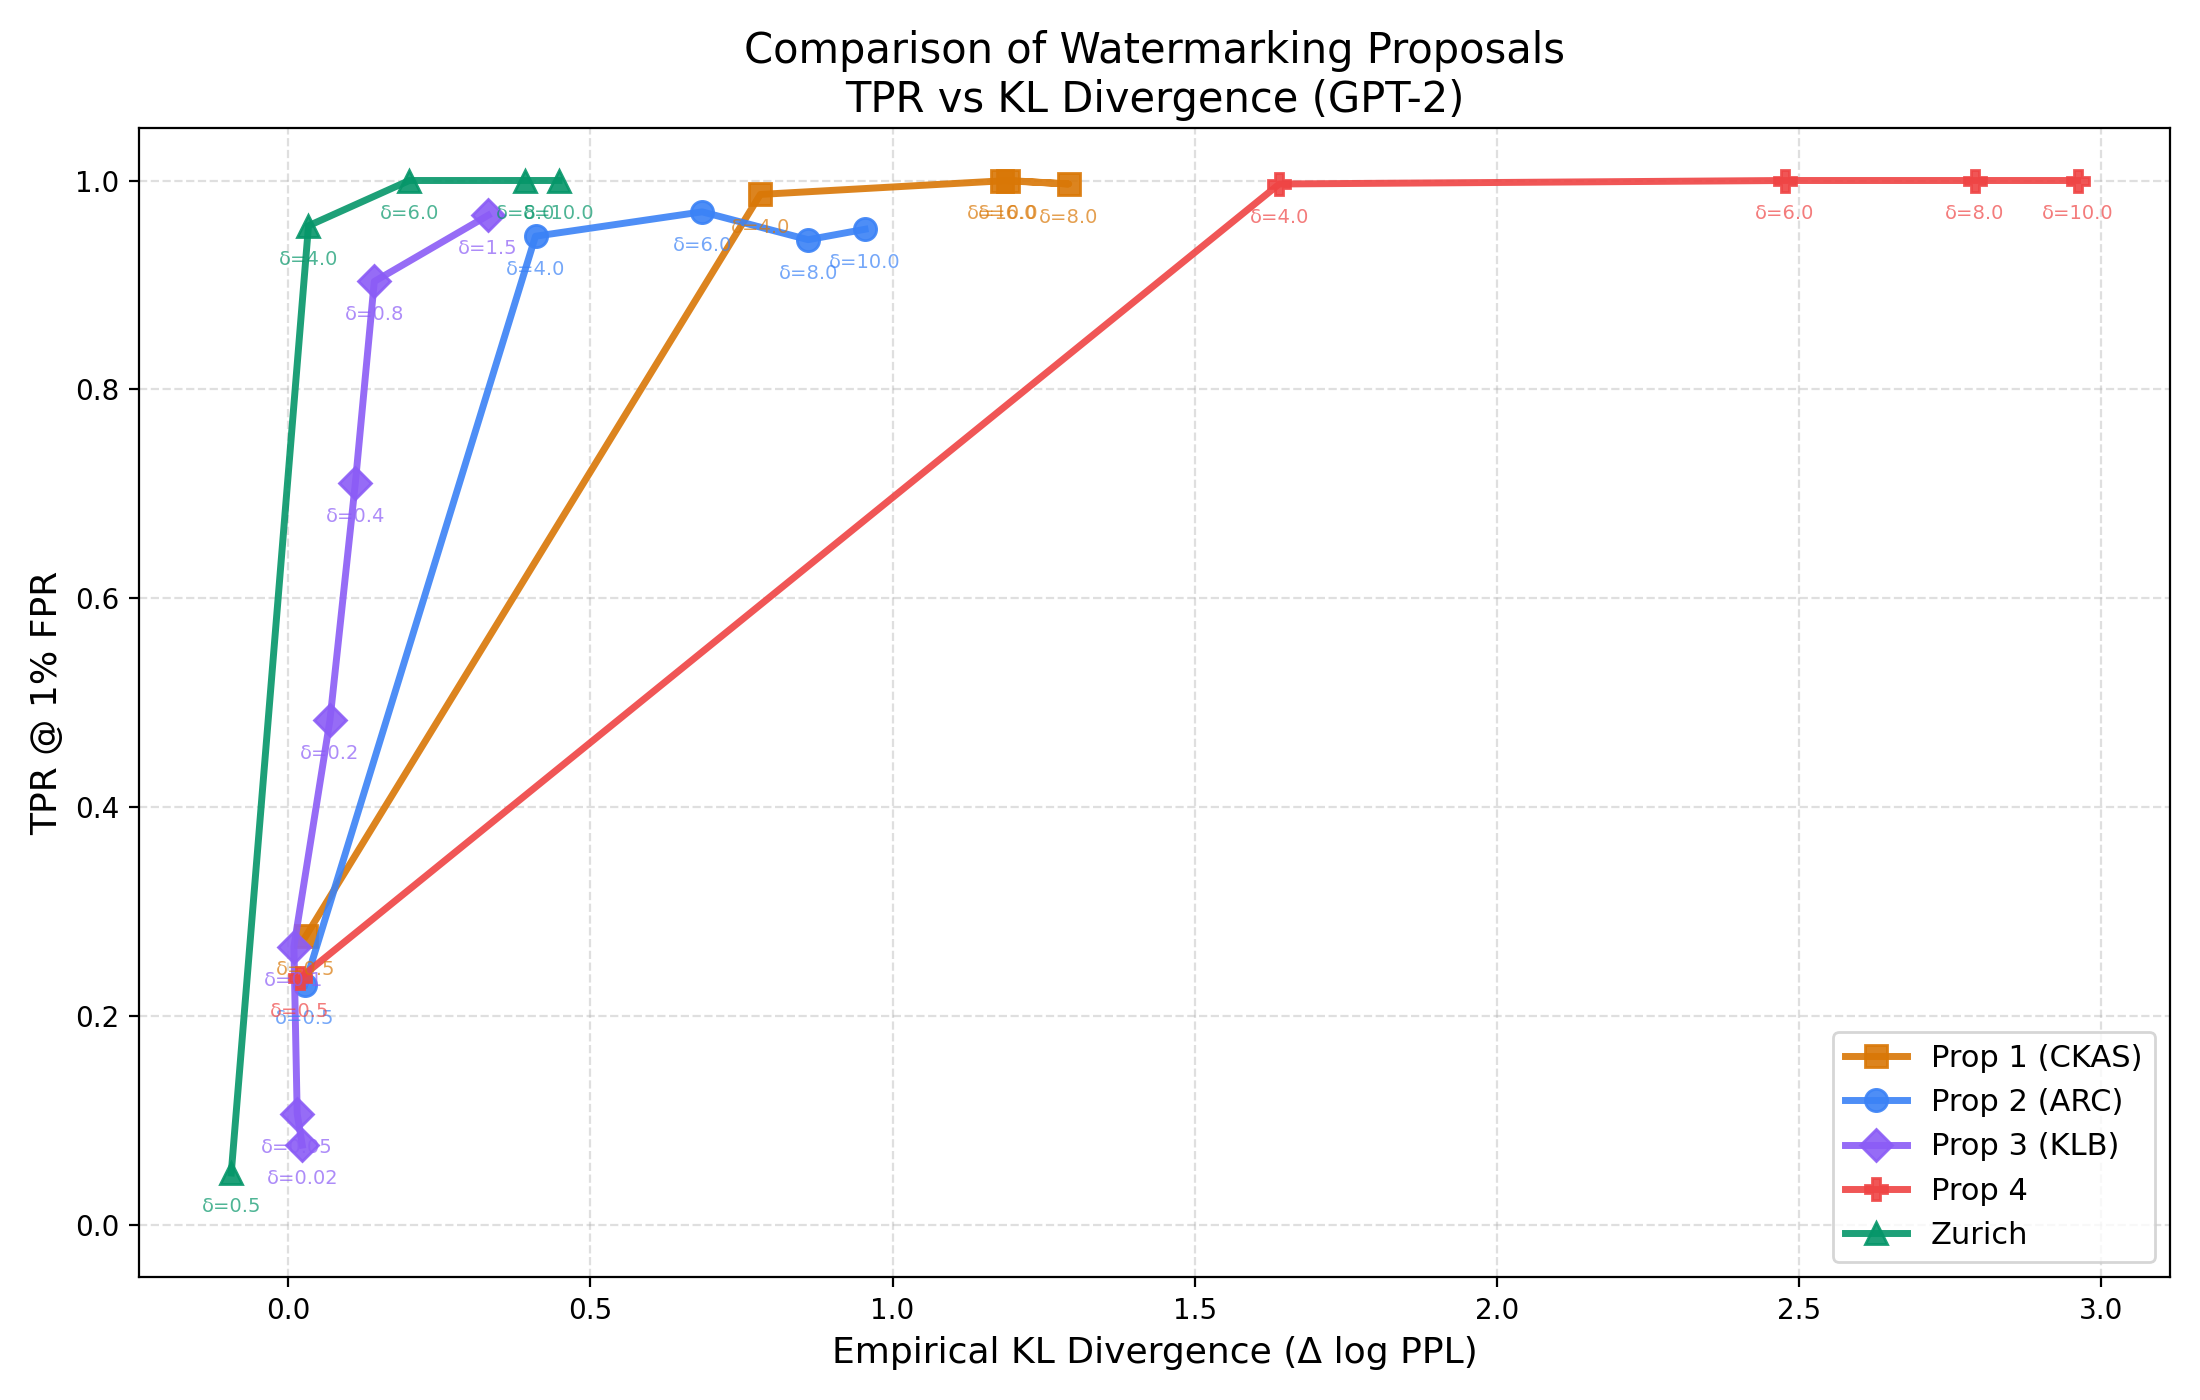
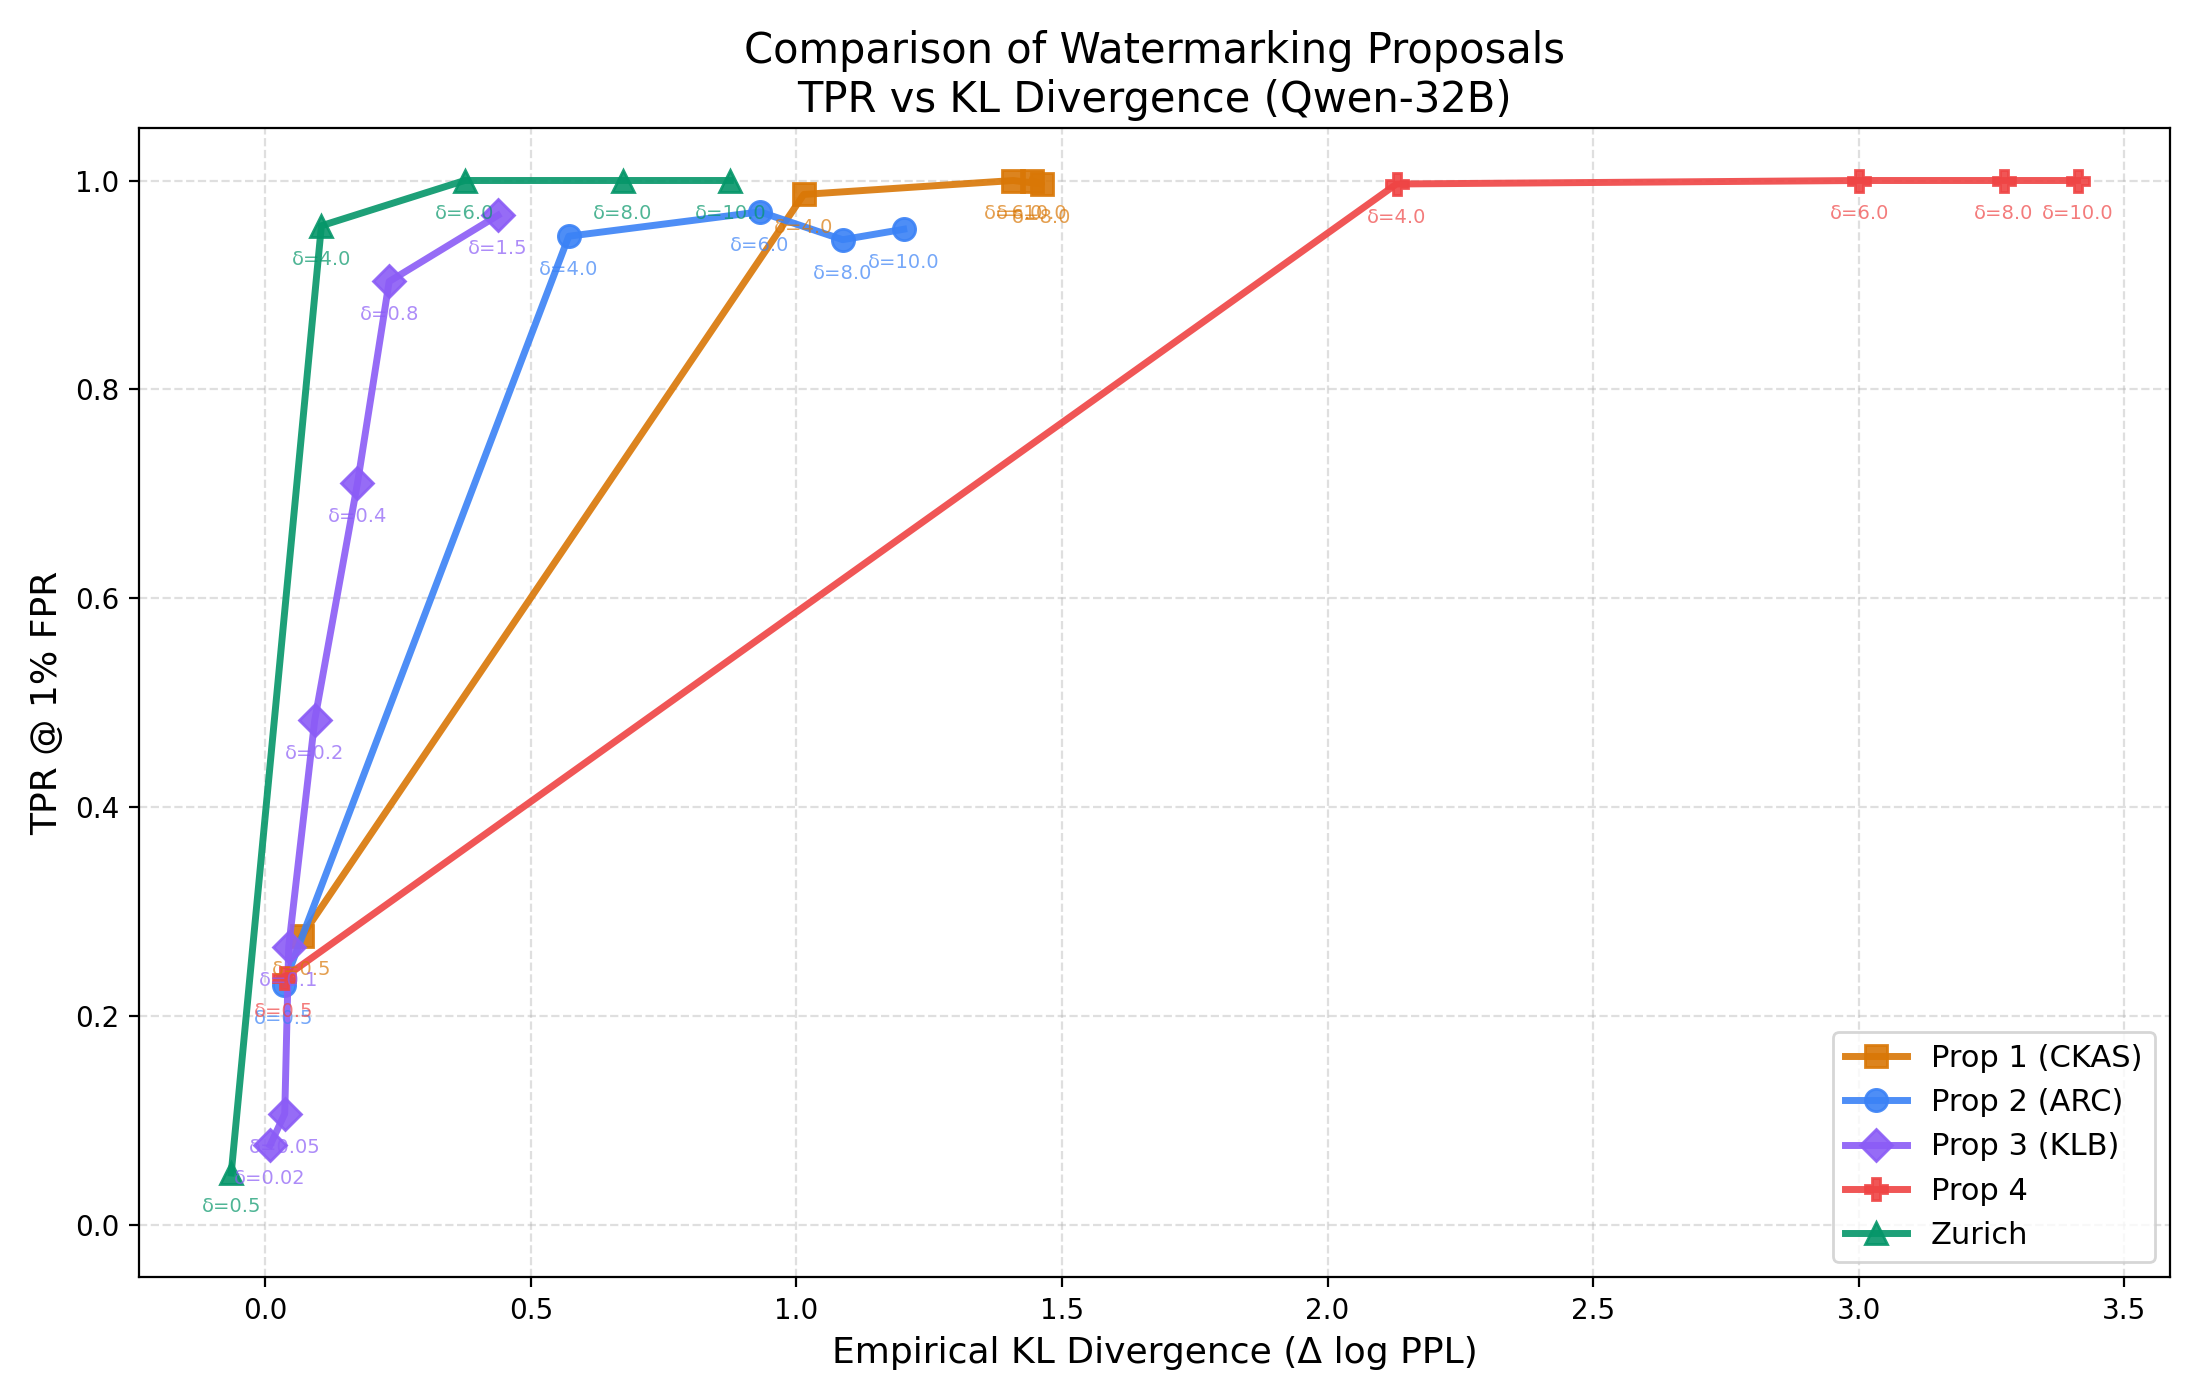
Try another propsoed algorithm

diff --git a/watermarks/proposal_5_ogt.py b/watermarks/proposal_5_ogt.py
@@ -1,0 +1,244 @@
+"""
+Proposal 5 — OGT: Optimal Gaussian Tilting.
+
+This method achieves the theoretical optimum for the KL divergence vs Detection Power tradeoff.
+Instead of binary green/red lists, it assigns a continuous standard Gaussian score
+s_v ~ N(0, 1) to every (context, token) pair. It then uses exact bisection to find the maximum
+tilt lambda_t such that the local KL divergence constraint KL(P_wm || P_base) <= kl_budget
+is met. The resulting logits are shifted by lambda_t * s_v.
+
+Detection sums the continuous scores of the observed tokens. Since s_v ~ N(0,1), under
+the null hypothesis the sum is distributed as N(0, N), so we use a standard Z-test.
+"""
+
+import math
+from typing import Any, Dict
+
+import numpy as np
+import torch
+from scipy.stats import norm
+
+# --------------------------- hashing primitives ---------------------------
+
+def _i64(c: int) -> int:
+    return c - (1 << 64) if c >= (1 << 63) else c
+
+_MIX1 = _i64(0xBF58476D1CE4E5B9)
+_MIX2 = _i64(0x94D049BB133111EB)
+_ROLE = [_i64(c) for c in (
+    0xD6E8FEB86659FD93, 0xA3B195354A39B70D, 0x9E6C63D0876A9F4F,
+    0xC2B2AE3D27D4EB4F, 0x165667B19E3779F9, 0x27D4EB2F165667C5,
+)]
+
+def _lsr(x: torch.Tensor, k: int) -> torch.Tensor:
+    return (x >> k) & _i64((1 << (64 - k)) - 1)
+
+def _mix(x: torch.Tensor) -> torch.Tensor:
+    x = x ^ _lsr(x, 30)
+    x = x * _MIX1
+    x = x ^ _lsr(x, 27)
+    x = x * _MIX2
+    x = x ^ _lsr(x, 31)
+    return x
+
+class DWTWatermark:
+    """Optimal Gaussian Tilting (OGT) watermark."""
+
+    def __init__(
+        self,
+        key: str = "xooks",
+        kl_budget: float = 0.10,      # nats per position
+        delta_max: float = 10.0,      # tilt cap
+        context_window: int = 1,      # w=1 matches Zurich
+        temperature: float = 1.0,
+        vocab_size: int = 50257,
+        min_tokens: int = 16,
+        chunk_size: int = 128,
+        bisect_iters: int = 40,
+        device: str = "cuda" if torch.cuda.is_available() else "cpu",
+        # signature compatibility
+        delta: float = None,
+        frequency: float = 0.045,
+    ):
+        self.key = key
+        # If the runner passes delta instead of kl_budget, we'll map delta to kl_budget.
+        # But waterbench_shared.py iterates over delta.
+        # Let's interpret delta as the kl_budget itself if delta is small, or map it.
+        # To match the runner script perfectly which passes --delta:
+        if delta is not None and kl_budget == 0.10:
+            # If the script passes delta like 0.02, 0.05, 0.1, we map that directly to kl_budget
+            self.kl_budget = float(delta)
+        else:
+            self.kl_budget = float(kl_budget)
+            
+        self.delta_max = float(delta_max)
+        self.window = int(context_window)
+        self.temperature = float(temperature)
+        self.vocab_size = int(vocab_size)
+        self.min_tokens = int(min_tokens)
+        self.chunk_size = int(chunk_size)
+        self.bisect_iters = int(bisect_iters)
+        self.device = device
+
+        import hashlib
+        self.key_int = _i64(int(hashlib.sha256(key.encode()).hexdigest()[:16], 16))
+        idx = torch.arange(self.vocab_size, dtype=torch.int64, device=device)
+        self._idx_mixed = (idx + 1) * _ROLE[0]
+
+    # ---- continuous scoring ----
+
+    def _context_hashes(self, ids: torch.Tensor) -> torch.Tensor:
+        ids = ids.to(torch.int64)
+        h = torch.full_like(ids, self.key_int)
+        for j in range(1, self.window + 1):
+            prev = torch.roll(ids, shifts=j, dims=-1).clone()
+            prev[..., :j] = -j
+            h = _mix(h ^ ((prev + 2) * _ROLE[j]))
+        return _mix(h)
+
+    def _get_gaussian_scores(self, mixed: torch.Tensor) -> torch.Tensor:
+        """Convert mixed 64-bit integers to standard normal floats."""
+        # 1. Convert to uniform float in [0, 1) using 53 bits of precision
+        u = (_lsr(mixed, 11).to(torch.float64) * (2 ** -53)).to(torch.float32)
+        # 2. Clamp to avoid infinity in inverse CDF
+        u = torch.clamp(u, 1e-7, 1 - 1e-7)
+        # 3. Inverse Normal CDF
+        s = torch.special.ndtri(u)
+        return s
+
+    def _scores_all_tokens(self, h: torch.Tensor) -> torch.Tensor:
+        y = _mix(h.unsqueeze(-1) ^ self._idx_mixed.unsqueeze(0))
+        return self._get_gaussian_scores(y)
+
+    def _scores_for_tokens(self, h: torch.Tensor, tok: torch.Tensor) -> torch.Tensor:
+        y = _mix(h ^ ((tok.to(torch.int64) + 1) * _ROLE[0]))
+        return self._get_gaussian_scores(y)
+
+    # ------------------------- Exact KL Bisection --------------------------------
+
+    @staticmethod
+    def _kl_of_delta(d: torch.Tensor, p0: torch.Tensor, s: torch.Tensor) -> torch.Tensor:
+        """
+        Compute exact KL divergence for tilt d.
+        p0: base probabilities (P, V)
+        s: token scores (P, V)
+        d: tilt multipliers (P, 1)
+        """
+        # q = p0 * exp(d * s) / Z
+        # log_q_unnorm = log(p0) + d * s
+        # Z = sum(p0 * exp(d * s)) -> but compute in log space
+        
+        log_p0 = torch.log(torch.clamp(p0, 1e-12))
+        log_q_unnorm = log_p0 + d * s
+        
+        # logZ = logsumexp(log_q_unnorm)
+        logZ = torch.logsumexp(log_q_unnorm, dim=-1, keepdim=True)
+        
+        # q = exp(log_q_unnorm - logZ)
+        q = torch.exp(log_q_unnorm - logZ)
+        
+        # KL(q || p0) = sum_v q_v * (log_q_unnorm_v - logZ_v - log_p0_v)
+        # Since log_q_unnorm - log_p0 = d * s
+        # KL = sum_v q_v * (d * s - logZ)
+        kl = torch.sum(q * (d * s - logZ), dim=-1)
+        return kl
+
+    def _solve_delta(self, p0: torch.Tensor, s: torch.Tensor) -> torch.Tensor:
+        """
+        Vectorised bisection over P positions to find tilt d.
+        """
+        P = p0.shape[0]
+        lo = torch.zeros((P, 1), device=p0.device)
+        hi = torch.full((P, 1), self.delta_max, device=p0.device)
+        
+        within = self._kl_of_delta(hi, p0, s) <= self.kl_budget
+        
+        for _ in range(self.bisect_iters):
+            mid = 0.5 * (lo + hi)
+            kl = self._kl_of_delta(mid, p0, s)
+            too_high = kl > self.kl_budget
+            hi = torch.where(too_high.unsqueeze(1), mid, hi)
+            lo = torch.where(too_high.unsqueeze(1), lo, mid)
+            
+        final_d = torch.where(within.unsqueeze(1), torch.full_like(lo, self.delta_max), lo)
+        return final_d.squeeze(1)
+
+    # ------------------------------------------------------------------
+
+    @torch.no_grad()
+    def apply_watermark(
+        self,
+        logits: torch.Tensor,        # (B, S, V_logits)
+        current_text: torch.Tensor,  # (B, S)
+        mask_index: torch.Tensor,    # (B, S)
+        step: int,
+        confidence: torch.Tensor,
+        x0: torch.Tensor,            # (B, S)
+        **kwargs,
+    ) -> torch.Tensor:
+        B, S, V_logits = logits.shape
+        V = min(V_logits, self.vocab_size)
+
+        ctx_ids = torch.where(mask_index, x0, current_text) if x0 is not None else current_text
+        hashes = self._context_hashes(ctx_ids)  # (B, S)
+
+        modified = logits.clone()
+        for b in range(B):
+            pos = mask_index[b].nonzero(as_tuple=True)[0]
+            pos = pos[pos >= self.window]
+            if pos.numel() == 0:
+                continue
+            for chunk in pos.split(self.chunk_size):
+                s = self._scores_all_tokens(hashes[b, chunk])[:, :V]      # (P,V)
+                p0 = torch.softmax(logits[b, chunk, :V].float() / self.temperature, dim=-1)
+                
+                d = self._solve_delta(p0, s)                               # (P,)
+                modified[b, chunk, :V] += (self.temperature * d).unsqueeze(1) * s
+        return modified
+
+    # ------------------------------------------------------------------
+
+    def detect(
+        self,
+        text: str,
+        tokenizer: Any,
+        p_value_threshold: float = 0.01,
+        **kwargs,
+    ) -> Dict[str, Any]:
+        """Detector based on sum of Gaussian scores."""
+        tokens = tokenizer.encode(text, return_tensors="pt")[0].to(self.device)
+        tokens = torch.clamp(tokens.to(torch.int64), 0, self.vocab_size - 1)
+        S = int(tokens.shape[0])
+        
+        if S < max(self.min_tokens, self.window + 1):
+            return {"is_watermarked": False, "score": 0.0,
+                    "z_score": 0.0, "p_value": 1.0, "n_scored": 0}
+
+        hashes = self._context_hashes(tokens.unsqueeze(0))[0]
+        s = self._scores_for_tokens(hashes, tokens)
+        
+        valid = torch.arange(S, device=self.device) >= self.window
+        hashes, toks, s = hashes[valid], tokens[valid], s[valid]
+
+        # Deduplicate repeats
+        pair_key = _mix(hashes ^ ((toks + 1) * _ROLE[1]))
+        _, first_idx = np.unique(pair_key.cpu().numpy(), return_index=True)
+        s_unique = s.cpu().numpy()[np.sort(first_idx)]
+
+        n = int(s_unique.shape[0])
+        if n < self.min_tokens:
+            return {"is_watermarked": False, "score": 0.0,
+                    "z_score": 0.0, "p_value": 1.0, "n_scored": n}
+                    
+        # Under H0, the sum of n standard normal variables is N(0, sqrt(n))
+        score_sum = float(s_unique.sum())
+        z_score = float(score_sum / math.sqrt(n))
+        p_value = float(norm.sf(z_score))
+        
+        return {
+            "is_watermarked": bool(p_value < p_value_threshold),
+            "score": score_sum,
+            "n_scored": n,
+            "z_score": z_score,
+            "p_value": p_value,
+        }
